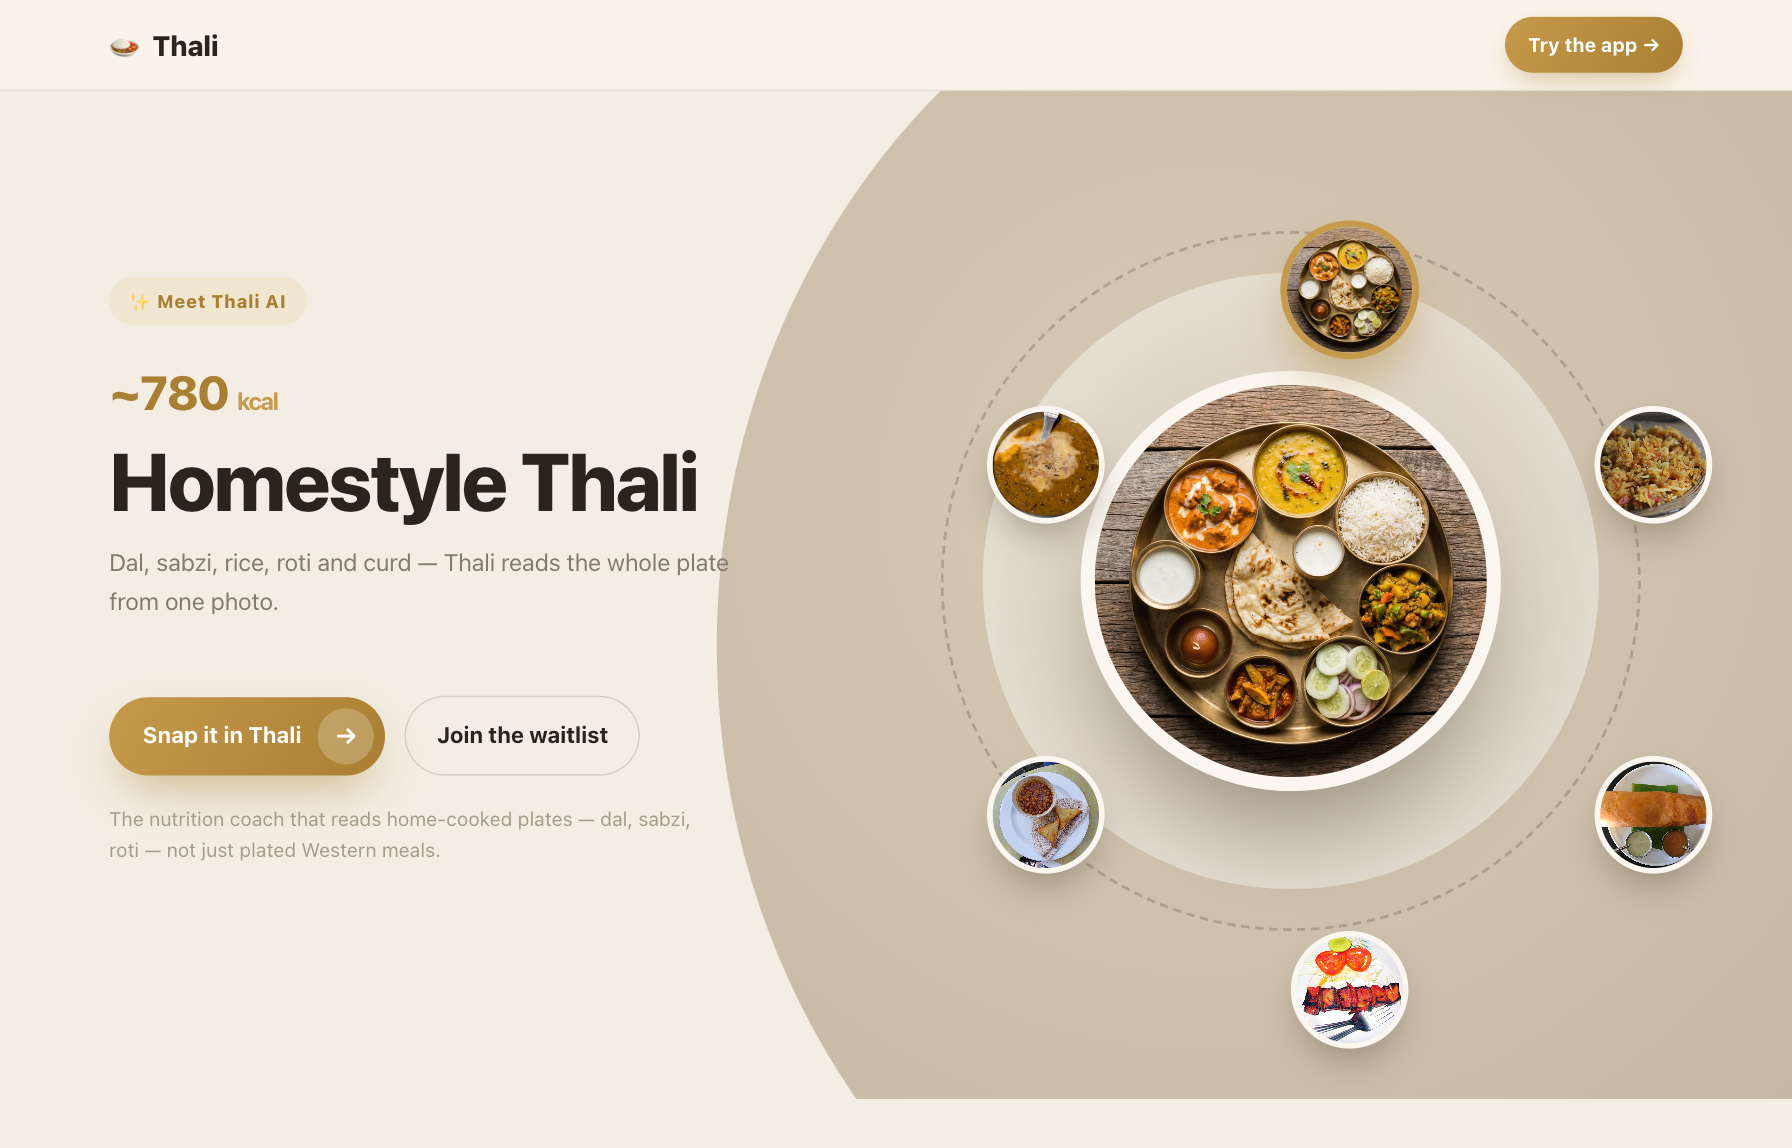
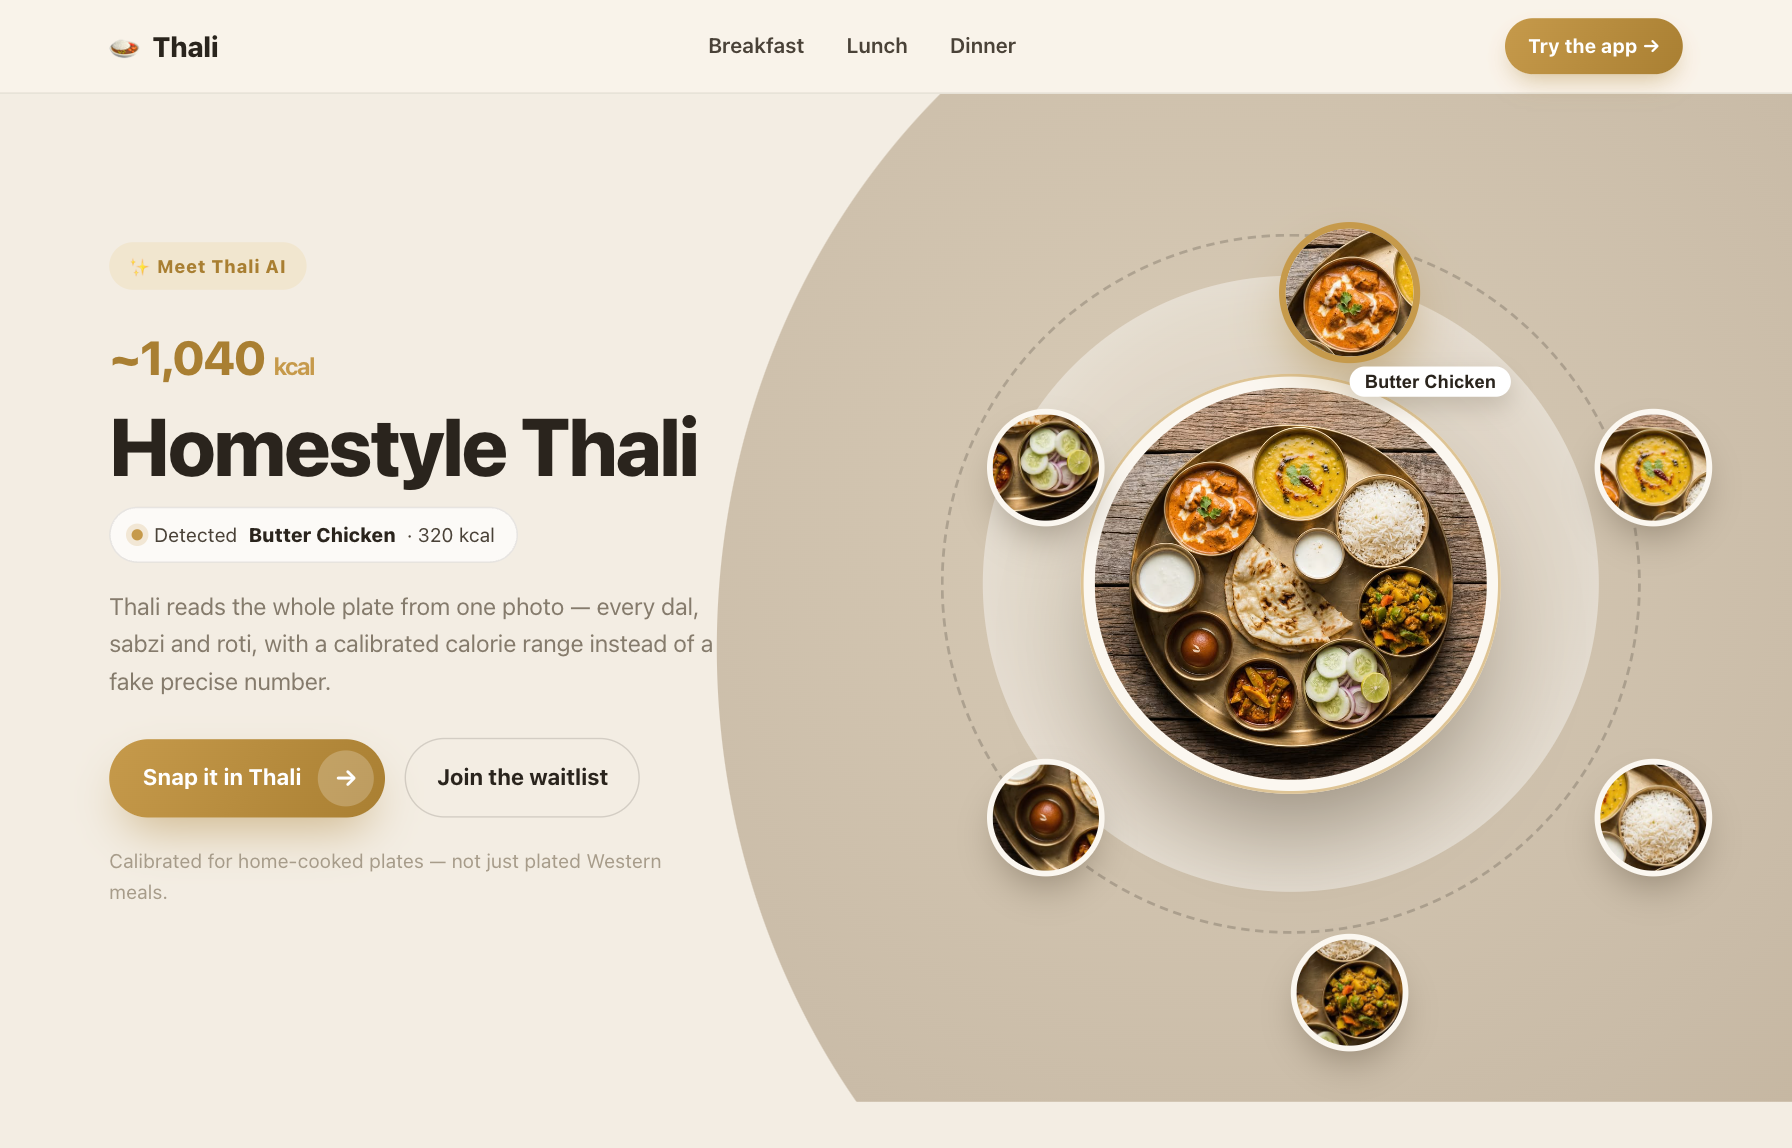
feat(web): orbit uses real katoris + Breakfast/Lunch/Dinner nav
- Cropped six katoris (butter chicken, dal, rice, mixed veg, gulab
  jamun, kachumber) from the hero thali so the orbiting dishes match
  the centre plate's brass/wood exactly — cohesive premium look.
- The plate is now constant; each katori is a "detected component"
  Thali finds on it. A live "Detected <dish> · N kcal" chip under the
  title cycles in sync with the orbit, and the active thumb shows a
  gold ring + white label pill.
- Added a subtle gold scanning pulse around the plate to sell the AI
  reading it.
- Nav gains Breakfast / Lunch / Dinner tabs (per the Behance reference),
  jumping to the corresponding sections.
- Retired the old d1-d5 orbit photos.

diff --git a/apps/web/app/hero-orbit.tsx b/apps/web/app/hero-orbit.tsx
@@ -6,27 +6,27 @@ import s from './hero-orbit.module.css';
 
 const APP_URL = 'https://thali-ai.vercel.app';
 
-const DISHES = [
-  { name: 'Homestyle Thali',   kcal: 780, img: '/food/hero.jpg', desc: 'Dal, sabzi, rice, roti and curd — Thali reads the whole plate from one photo.' },
-  { name: 'Vegetable Biryani', kcal: 385, img: '/food/d1.jpg',   desc: 'A rice-heavy plate is where guess-work apps slip. Thali gives a calibrated range.' },
-  { name: 'Masala Dosa',       kcal: 480, img: '/food/d2.jpg',   desc: 'Fermented, folded, filled — recognised by component, not by a single guess.' },
-  { name: 'Paneer Tikka',      kcal: 300, img: '/food/d3.jpg',   desc: 'High-protein, home-style. Portion-aware, so the number actually fits your plate.' },
-  { name: 'Chana Masala',      kcal: 210, img: '/food/d4.jpg',   desc: 'Fibre-rich and filling. Every estimate ships with a confidence band, never fake precision.' },
-  { name: 'Dal Makhani',       kcal: 330, img: '/food/d5.jpg',   desc: 'Creamy and comforting. If it is a lot for your day, Thali offers one lighter swap.' },
+// The components Thali "detects" — each is a real katori cropped from the
+// hero thali, so they match the centre plate exactly.
+const COMPONENTS = [
+  { name: 'Butter Chicken',  kcal: 320, img: '/food/c1.jpg' },
+  { name: 'Dal Tadka',       kcal: 170, img: '/food/c2.jpg' },
+  { name: 'Steamed Rice',    kcal: 210, img: '/food/c3.jpg' },
+  { name: 'Mixed Veg Sabzi', kcal: 150, img: '/food/c4.jpg' },
+  { name: 'Gulab Jamun',     kcal: 150, img: '/food/c5.jpg' },
+  { name: 'Kachumber Salad', kcal: 40,  img: '/food/c6.jpg' },
 ];
-
-const N = DISHES.length;
-const R_THUMB = 250; // orbit radius (base 560 canvas)
+const N = COMPONENTS.length;
+const TOTAL = COMPONENTS.reduce((s, c) => s + c.kcal, 0);
+const R_THUMB = 250;
 
 export function HeroOrbit() {
   const [sel, setSel] = useState(0);
-
   useEffect(() => {
-    const t = setInterval(() => setSel((v) => (v + 1) % N), 4200);
+    const t = setInterval(() => setSel((v) => (v + 1) % N), 2600);
     return () => clearInterval(t);
   }, []);
-
-  const dish = DISHES[sel];
+  const c = COMPONENTS[sel];
 
   return (
     <div className={s.hero}>
@@ -34,25 +34,35 @@ export function HeroOrbit() {
         {/* Left copy */}
         <div className={s.copy}>
           <span className={s.eyebrow}>✨ Meet Thali AI</span>
-          <AnimatePresence mode="wait">
-            <motion.div
-              key={sel}
-              initial={{ opacity: 0, y: 16 }}
-              animate={{ opacity: 1, y: 0 }}
-              exit={{ opacity: 0, y: -12 }}
-              transition={{ duration: 0.45, ease: [0.2, 0.8, 0.2, 1] }}
-            >
-              <div className={s.kcal}>~{dish.kcal} <span className={s.kcalUnit}>kcal</span></div>
-              <h1 className={s.title}>{dish.name}</h1>
-              <p className={s.desc}>{dish.desc}</p>
-            </motion.div>
-          </AnimatePresence>
+          <div className={s.kcal}>~{TOTAL.toLocaleString()} <span className={s.kcalUnit}>kcal</span></div>
+          <h1 className={s.title}>Homestyle Thali</h1>
+
+          <div className={s.detectWrap}>
+            <AnimatePresence mode="wait">
+              <motion.div
+                key={sel}
+                className={s.detect}
+                initial={{ opacity: 0, y: 8 }}
+                animate={{ opacity: 1, y: 0 }}
+                exit={{ opacity: 0, y: -8 }}
+                transition={{ duration: 0.35, ease: [0.2, 0.8, 0.2, 1] }}
+              >
+                <span className={s.detectDot} />
+                Detected <b>{c.name}</b> · {c.kcal} kcal
+              </motion.div>
+            </AnimatePresence>
+          </div>
+
+          <p className={s.desc}>
+            Thali reads the whole plate from one photo — every dal, sabzi and roti,
+            with a calibrated calorie range instead of a fake precise number.
+          </p>
 
           <div className={s.ctaRow}>
             <a href={APP_URL} className={s.cta}>Snap it in Thali <span className={s.ctaCircle}>→</span></a>
             <a href="#waitlist" className={s.ghost}>Join the waitlist</a>
           </div>
-          <p className={s.trust}>The nutrition coach that reads home-cooked plates — dal, sabzi, roti — not just plated Western meals.</p>
+          <p className={s.trust}>Calibrated for home-cooked plates — not just plated Western meals.</p>
         </div>
 
         {/* Right orbit */}
@@ -61,24 +71,14 @@ export function HeroOrbit() {
             <div className={s.arc} />
             <div className={s.ring} />
 
-            {/* center plate */}
+            {/* centre plate (constant) */}
             <div className={s.centerWrap}>
-              <AnimatePresence mode="popLayout">
-                <motion.img
-                  key={sel}
-                  src={dish.img}
-                  alt={dish.name}
-                  className={s.center}
-                  initial={{ opacity: 0, scale: 0.8, rotate: -10 }}
-                  animate={{ opacity: 1, scale: 1, rotate: 0 }}
-                  exit={{ opacity: 0, scale: 0.9, rotate: 8 }}
-                  transition={{ type: 'spring', damping: 18, stiffness: 180 }}
-                />
-              </AnimatePresence>
+              <img src="/food/hero.jpg" alt="Homestyle thali" className={s.center} />
+              <div className={s.scan} />
             </div>
 
-            {/* orbiting thumbs */}
-            {DISHES.map((d, i) => {
+            {/* detected components */}
+            {COMPONENTS.map((d, i) => {
               const angle = (-90 + i * (360 / N)) * (Math.PI / 180);
               const x = Math.cos(angle) * R_THUMB;
               const y = Math.sin(angle) * R_THUMB;
@@ -89,11 +89,23 @@ export function HeroOrbit() {
                   onClick={() => setSel(i)}
                   className={`${s.thumb} ${active ? s.thumbActive : ''}`}
                   style={{ left: `calc(50% + ${x}px)`, top: `calc(50% + ${y}px)` }}
-                  animate={{ scale: active ? 1.18 : 1 }}
-                  whileHover={{ scale: active ? 1.18 : 1.08 }}
+                  animate={{ scale: active ? 1.2 : 1 }}
+                  whileHover={{ scale: active ? 1.2 : 1.08 }}
                   transition={{ type: 'spring', stiffness: 300, damping: 20 }}
                 >
                   <img src={d.img} alt={d.name} />
+                  <AnimatePresence>
+                    {active && (
+                      <motion.span
+                        className={s.thumbLabel}
+                        initial={{ opacity: 0, y: 4 }}
+                        animate={{ opacity: 1, y: 0 }}
+                        exit={{ opacity: 0, y: 4 }}
+                      >
+                        {d.name}
+                      </motion.span>
+                    )}
+                  </AnimatePresence>
                 </motion.button>
               );
             })}

diff --git a/apps/web/app/hero-orbit.module.css b/apps/web/app/hero-orbit.module.css
@@ -39,9 +39,17 @@
 .title {
   font-size: clamp(38px, 5vw, 58px);
   line-height: 1.04; font-weight: 800; letter-spacing: -1.4px;
-  margin: 6px 0 16px; color: var(--text);
+  margin: 6px 0 14px; color: var(--text);
 }
-.desc { font-size: 17px; line-height: 1.6; color: var(--text-muted); min-height: 82px; margin: 0 0 26px; }
+.detectWrap { min-height: 30px; margin-bottom: 18px; }
+.detect {
+  display: inline-flex; align-items: center; gap: 8px;
+  background: rgba(255,255,255,0.72); border: 1px solid var(--border);
+  padding: 8px 15px; border-radius: 999px; font-size: 14px; color: var(--text-soft);
+}
+.detect b { color: var(--text); font-weight: 800; }
+.detectDot { width: 8px; height: 8px; border-radius: 4px; background: var(--gold); box-shadow: 0 0 0 4px rgba(198,154,75,0.2); }
+.desc { font-size: 17px; line-height: 1.6; color: var(--text-muted); margin: 0 0 26px; max-width: 440px; }
 
 .ctaRow { display: flex; gap: 14px; align-items: center; flex-wrap: wrap; }
 .cta {
@@ -96,17 +104,29 @@
   box-shadow: 0 40px 70px -20px rgba(60,48,30,0.45);
   position: absolute; inset: 0;
 }
+.scan {
+  position: absolute; inset: 0; border-radius: 50%;
+  border: 2px solid rgba(198,154,75,0.55);
+  animation: pulse 2.6s ease-in-out infinite;
+  pointer-events: none;
+}
 
 .thumb {
   position: absolute;
   width: 84px; height: 84px; border-radius: 50%;
   transform: translate(-50%, -50%);
   padding: 0; border: 4px solid #FBF7F0; cursor: pointer;
-  overflow: hidden; background: #eee;
+  background: #eee;
   box-shadow: 0 14px 28px -8px rgba(60,48,30,0.4);
 }
-.thumb img { width: 100%; height: 100%; object-fit: cover; }
+.thumb img { width: 100%; height: 100%; object-fit: cover; border-radius: 50%; }
 .thumbActive { border-color: var(--gold); box-shadow: 0 16px 34px -8px rgba(169,127,50,0.6); }
+.thumbLabel {
+  position: absolute; bottom: -24px; left: 50%; transform: translateX(-50%);
+  white-space: nowrap; font-size: 11px; font-weight: 800; color: var(--text);
+  background: #fff; padding: 3px 9px; border-radius: 999px;
+  box-shadow: 0 6px 14px rgba(60,48,30,0.18);
+}
 
 /* Responsive */
 @media (max-width: 960px) {

diff --git a/apps/web/app/page.tsx b/apps/web/app/page.tsx
@@ -15,6 +15,11 @@ export default function Landing() {
             <span className={s.brandDot}>🍛</span>
             <span>Thali</span>
           </div>
+          <div className={s.navLinks}>
+            <a href="#features">Breakfast</a>
+            <a href="#how">Lunch</a>
+            <a href="#waitlist">Dinner</a>
+          </div>
           <a href={APP_URL} className={s.navCta}>Try the app →</a>
         </div>
       </nav>
@@ -23,7 +28,7 @@ export default function Landing() {
       <HeroOrbit />
 
       {/* Feature trio */}
-      <section className={s.section}>
+      <section id="features" className={s.section}>
         <div className="container">
           <Reveal><h2 className={s.h2}>Not another calorie app</h2></Reveal>
           <RevealStagger className={s.grid3}>
@@ -44,7 +49,7 @@ export default function Landing() {
       </section>
 
       {/* How it works */}
-      <section className={`${s.section} ${s.sectionAlt}`}>
+      <section id="how" className={`${s.section} ${s.sectionAlt}`}>
         <div className="container">
           <Reveal><h2 className={s.h2}>Snap. See. Decide.</h2></Reveal>
           <RevealStagger className={s.steps}>

diff --git a/apps/web/app/page.module.css b/apps/web/app/page.module.css
@@ -5,7 +5,11 @@
   background: rgba(251, 247, 240, 0.72);
   border-bottom: 1px solid var(--border);
 }
-.navInner { display: flex; align-items: center; justify-content: space-between; height: 64px; }
+.navInner { display: flex; align-items: center; justify-content: space-between; height: 66px; }
+.navLinks { display: flex; gap: 30px; }
+.navLinks a { font-size: 15px; font-weight: 600; color: var(--text-soft); transition: color 0.15s ease; }
+.navLinks a:hover { color: var(--gold-deep); }
+@media (max-width: 760px) { .navLinks { display: none; } }
 .brand { display: flex; align-items: center; gap: 8px; font-weight: 800; font-size: 20px; color: var(--text); }
 .brandDot { font-size: 22px; }
 .navCta {
